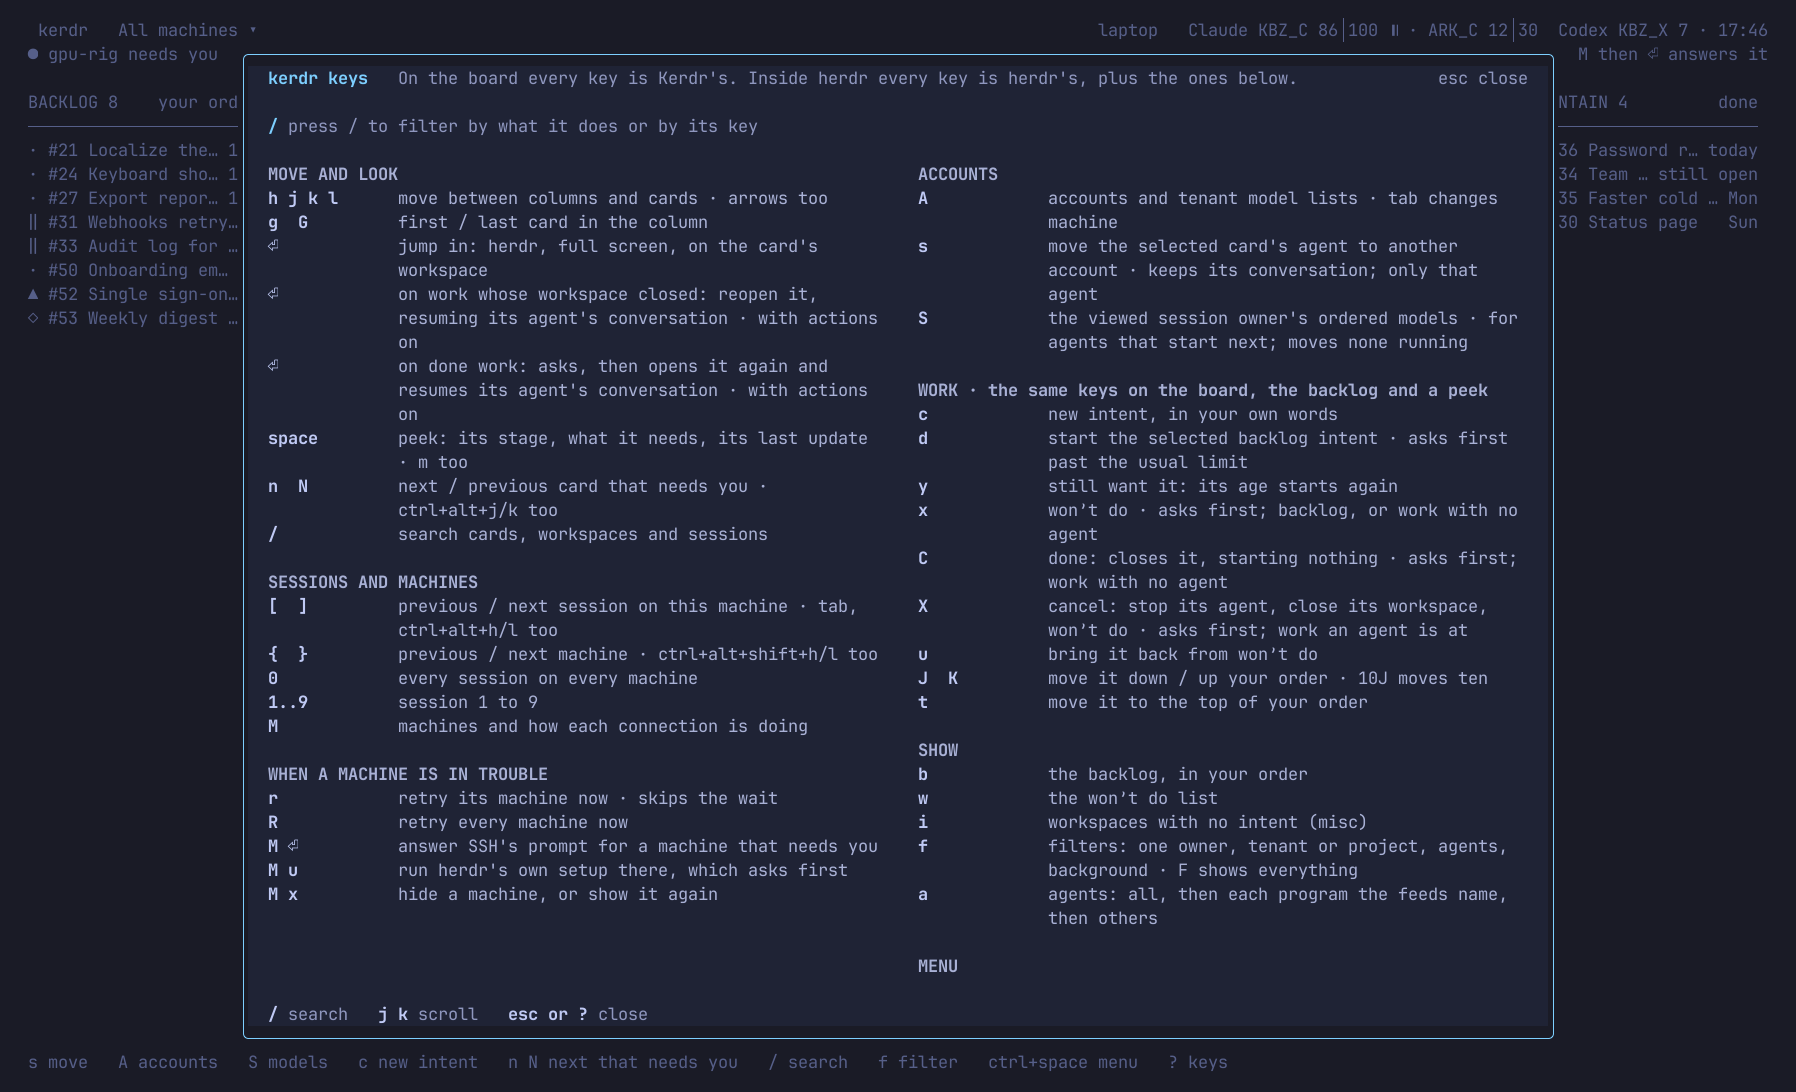
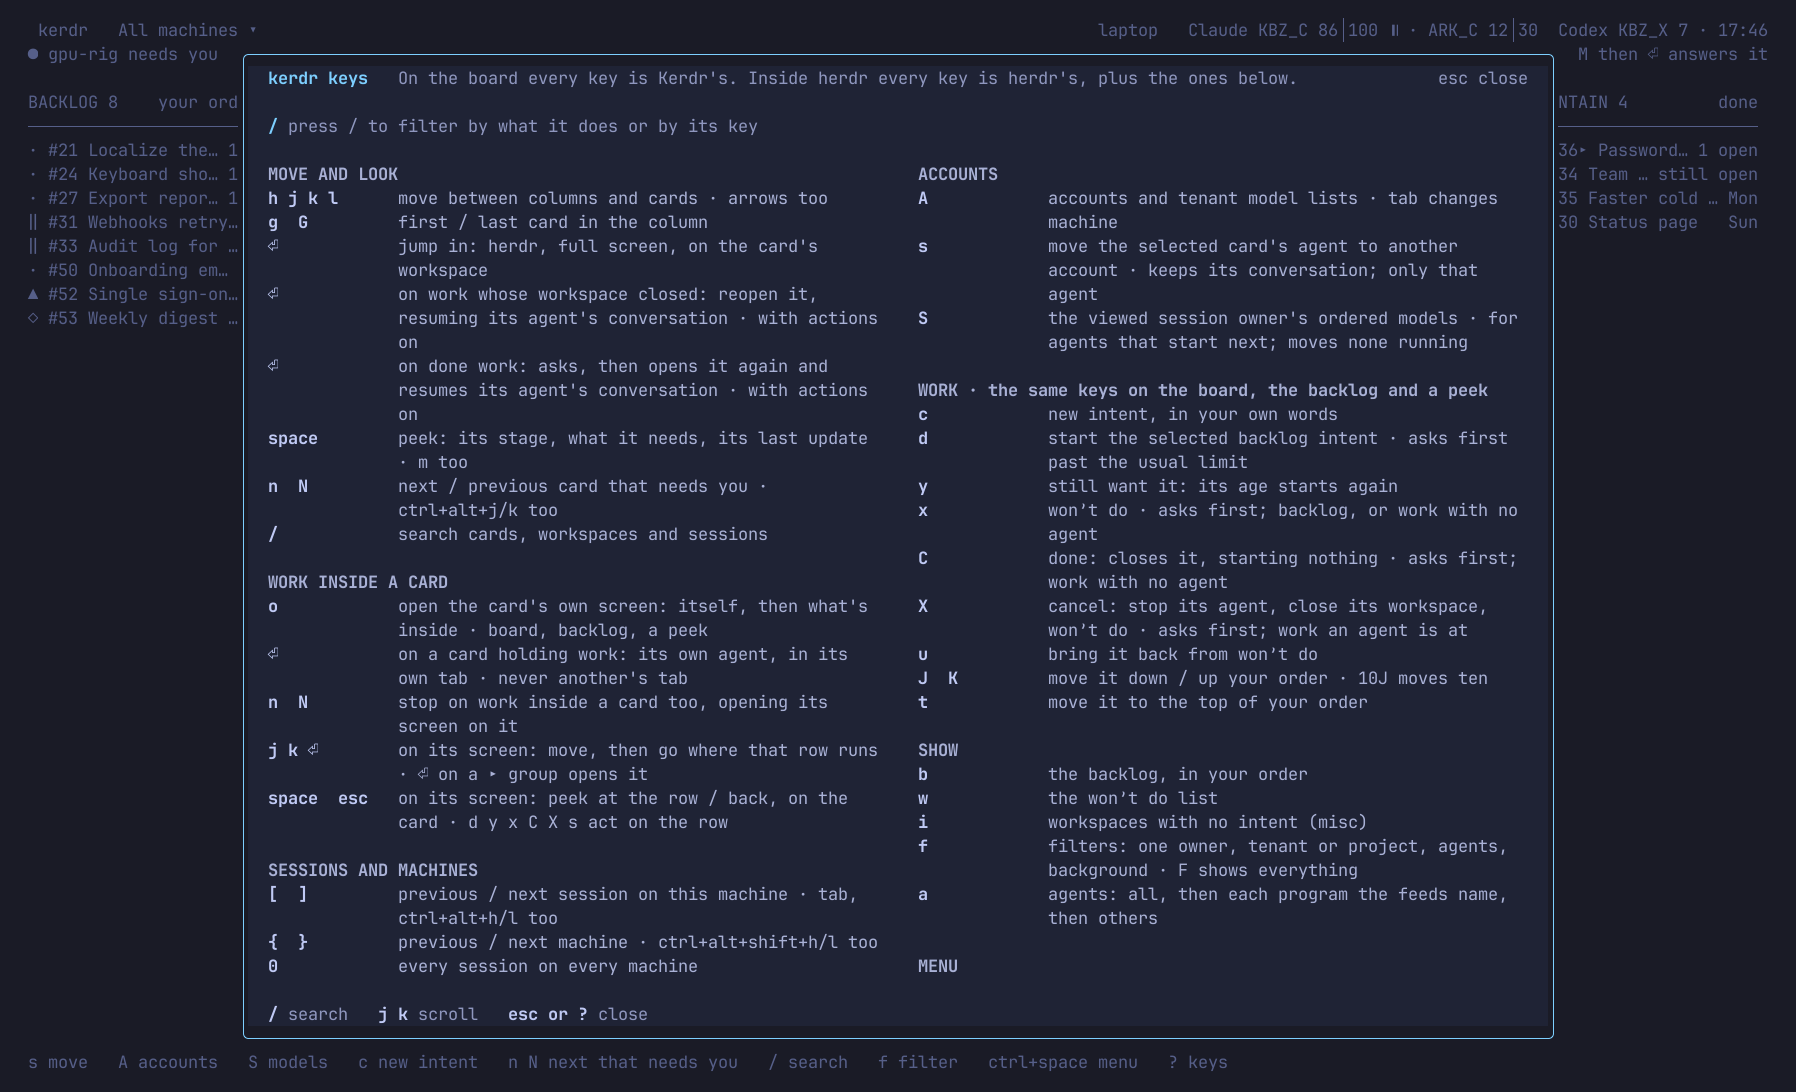
Kerdr 0.15.0: work an agent made for a card lives inside that card

Changed region(s): [[0.1559, 0.5293, 0.4989, 0.9029], [0.9042, 0.1245, 0.9354, 0.1557]]

diff --git a/src/inside.rs b/src/inside.rs
@@ -664,7 +664,13 @@ mod tests {
     use crate::poll::{Conn, MachineData};
     use ratatui::crossterm::event::{KeyCode, KeyModifiers};
 
-    fn machine(name: &str, ssh: bool, session: &str, snap: Snapshot, cards: Vec<FeedCard>) -> MachineState {
+    fn machine(
+        name: &str,
+        ssh: bool,
+        session: &str,
+        snap: Snapshot,
+        cards: Vec<FeedCard>,
+    ) -> MachineState {
         let mut m = MachineState::new(Machine {
             name: name.into(),
             ssh: ssh.then(|| name.to_lowercase()),
@@ -794,12 +800,22 @@ mod tests {
                     c.no_agent = true;
                     c.lane = Some("background".into());
                 }),
-                card("0348", "Knowledge browser live access checks", "backlog", |c| {
-                    c.from = Some("0139".into());
-                }),
-                card("0350", "Browser key-node shapes design pass", "backlog", |c| {
-                    c.from = Some("0139".into());
-                }),
+                card(
+                    "0348",
+                    "Knowledge browser live access checks",
+                    "backlog",
+                    |c| {
+                        c.from = Some("0139".into());
+                    },
+                ),
+                card(
+                    "0350",
+                    "Browser key-node shapes design pass",
+                    "backlog",
+                    |c| {
+                        c.from = Some("0139".into());
+                    },
+                ),
                 card("0143", "Find the next flywheel", "maintain", |c| {
                     c.attention = Some("done".into());
                     c.closed = Some("2026-10-31".into());
@@ -820,20 +836,25 @@ mod tests {
             true,
             "ARK-Background",
             one_snap,
-            vec![card("0331", "Live check: Arkship work on arknet-one", "build", |c| {
-                c.from = Some("0256".into());
-                c.lane = Some("background".into());
-                c.home = Some(Home {
-                    machine: Some("arknet-one".into()),
-                    session: Some("ARK-Background".into()),
-                });
-                c.workspace = Some(FeedWorkspace {
-                    session: Some("ARK-Background".into()),
-                    id: Some("w1".into()),
-                    label: Some("31-live-check".into()),
-                    ..Default::default()
-                });
-            })],
+            vec![card(
+                "0331",
+                "Live check: Arkship work on arknet-one",
+                "build",
+                |c| {
+                    c.from = Some("0256".into());
+                    c.lane = Some("background".into());
+                    c.home = Some(Home {
+                        machine: Some("arknet-one".into()),
+                        session: Some("ARK-Background".into()),
+                    });
+                    c.workspace = Some(FeedWorkspace {
+                        session: Some("ARK-Background".into()),
+                        id: Some("w1".into()),
+                        label: Some("31-live-check".into()),
+                        ..Default::default()
+                    });
+                },
+            )],
         );
         let mut cfg = Config::default();
         cfg.actions.command = Some("ark-card-action".into());
@@ -894,7 +915,10 @@ mod tests {
         let cols = column_ids(&app);
         let all: Vec<&String> = cols.iter().flatten().collect();
         for piece in ["0262", "0277", "0331", "0332", "0287", "0348", "0350"] {
-            assert!(!all.iter().any(|id| *id == piece), "{piece} is inside its card");
+            assert!(
+                !all.iter().any(|id| *id == piece),
+                "{piece} is inside its card"
+            );
         }
         // Column counts count a card once.
         assert_eq!(cols[Stage::Test.index()], ["0256"]);
@@ -947,7 +971,11 @@ mod tests {
                     && b[(x + 3, y)].symbol() == "6"
             })
             .expect("#256 on the board");
-        assert_eq!(b[(x - 2, y)].fg, crate::theme::YELLOW, "its border is yellow");
+        assert_eq!(
+            b[(x - 2, y)].fg,
+            crate::theme::YELLOW,
+            "its border is yellow"
+        );
     }
 
     #[test]
@@ -963,10 +991,7 @@ mod tests {
         assert_eq!(app.jump_tab(&child), (Some("w2K:t2".into()), true));
         // herdr finds the card's own tab gone: it asks to reopen the card, landing nowhere.
         app.tab_gone(&k);
-        let Mode::Confirm {
-            request, plain, ..
-        } = &app.mode
-        else {
+        let Mode::Confirm { request, plain, .. } = &app.mode else {
             panic!("asks: {:?}", app.mode)
         };
         assert_eq!(request["action"], "reopen");
@@ -1003,10 +1028,22 @@ mod tests {
         assert!(matches!(app.mode, Mode::Card { .. }));
         for (w, h) in SIZES {
             let text = rendered(&mut app, w, h);
-            for r in ["#256", "#262", "#277", "#331", "#332", "NEEDS YOU", "UNDER WAY", "NOT STARTED"] {
+            for r in [
+                "#256",
+                "#262",
+                "#277",
+                "#331",
+                "#332",
+                "NEEDS YOU",
+                "UNDER WAY",
+                "NOT STARTED",
+            ] {
                 assert!(text.contains(r), "{w}x{h} shows {r}:\n{text}");
             }
-            assert!(text.contains("the card itself") || w < 110, "{w}x{h}:\n{text}");
+            assert!(
+                text.contains("the card itself") || w < 110,
+                "{w}x{h}:\n{text}"
+            );
         }
         // The card itself first, then what needs you.
         let rows = |app: &App| {
@@ -1016,10 +1053,16 @@ mod tests {
             focus.clone()
         };
         assert_eq!(rows(&app), "");
-        assert_eq!(press(&mut app, KeyCode::Enter), Action::Jump(key(&app, "0256")));
+        assert_eq!(
+            press(&mut app, KeyCode::Enter),
+            Action::Jump(key(&app, "0256"))
+        );
         press(&mut app, KeyCode::Char('j'));
         assert_eq!(rows(&app), key(&app, "0262"));
-        assert_eq!(press(&mut app, KeyCode::Enter), Action::Jump(key(&app, "0262")));
+        assert_eq!(
+            press(&mut app, KeyCode::Enter),
+            Action::Jump(key(&app, "0262"))
+        );
         press(&mut app, KeyCode::Char('j'));
         assert_eq!(rows(&app), key(&app, "0331"));
         let one = key(&app, "0331");
@@ -1063,13 +1106,19 @@ mod tests {
         let Mode::Card { card, focus, .. } = &app.mode else {
             panic!("{:?}", app.mode)
         };
-        assert_eq!((card.as_str(), focus.as_str()), ("ark-sdlc:0256", "ark-sdlc:0262"));
+        assert_eq!(
+            (card.as_str(), focus.as_str()),
+            ("ark-sdlc:0256", "ark-sdlc:0262")
+        );
         // The next is inside another card: its screen, on it.
         app.step_needs_you(1);
         let Mode::Card { card, focus, .. } = &app.mode else {
             panic!("{:?}", app.mode)
         };
-        assert_eq!((card.as_str(), focus.as_str()), ("ark-sdlc:0139", "ark-sdlc:0287"));
+        assert_eq!(
+            (card.as_str(), focus.as_str()),
+            ("ark-sdlc:0139", "ark-sdlc:0287")
+        );
         // Ctrl+Space Space goes straight to a piece's own tab: only those with a workspace open.
         assert_eq!(
             app.next_needs_you_after(&key(&app, "0287"), &[]),
@@ -1093,7 +1142,10 @@ mod tests {
         let Mode::Card { card, focus, .. } = &app.mode else {
             panic!("{:?}", app.mode)
         };
-        assert_eq!((card.as_str(), focus.as_str()), ("ark-sdlc:0256", "ark-sdlc:0331"));
+        assert_eq!(
+            (card.as_str(), focus.as_str()),
+            ("ark-sdlc:0256", "ark-sdlc:0331")
+        );
     }
 
     #[test]
@@ -1119,7 +1171,12 @@ mod tests {
                 })
             })
             .collect();
-        app.machines[0].feed.as_mut().unwrap().cards.append(&mut extra);
+        app.machines[0]
+            .feed
+            .as_mut()
+            .unwrap()
+            .cards
+            .append(&mut extra);
         app.rebuild();
         select(&mut app, "0143");
         press(&mut app, KeyCode::Char('o'));
@@ -1134,7 +1191,10 @@ mod tests {
         for (w, h) in SIZES {
             let text = rendered(&mut app, w, h);
             assert!(text.contains("#400"), "{w}x{h}:\n{text}");
-            assert!(text.contains("below"), "past a screenful it scrolls, {w}x{h}:\n{text}");
+            assert!(
+                text.contains("below"),
+                "past a screenful it scrolls, {w}x{h}:\n{text}"
+            );
         }
     }
 
@@ -1142,11 +1202,19 @@ mod tests {
     fn a_loop_of_links_leaves_every_card_on_the_board() {
         let mut app = families(Some("w2K:t1"));
         let f = app.machines[0].feed.as_mut().unwrap();
-        f.cards.push(card("0500", "a", "build", |c| c.parent = Some("0501".into())));
-        f.cards.push(card("0501", "b", "build", |c| c.parent = Some("0500".into())));
+        f.cards.push(card("0500", "a", "build", |c| {
+            c.parent = Some("0501".into())
+        }));
+        f.cards.push(card("0501", "b", "build", |c| {
+            c.parent = Some("0500".into())
+        }));
         app.rebuild();
         let cols = column_ids(&app);
-        let on_board = cols.iter().flatten().filter(|id| *id == "0500" || *id == "0501").count();
+        let on_board = cols
+            .iter()
+            .flatten()
+            .filter(|id| *id == "0500" || *id == "0501")
+            .count();
         assert_eq!(on_board, 1, "one heads the family, holding the other");
     }
 }

diff --git a/examples/shots.rs b/examples/shots.rs
@@ -294,6 +294,17 @@ fn main() {
     };
     rasterize(&render(&handed), &fonts, &out.join("peek-handed-over.png"));
 
+    // A card's own screen (o), on the child at work in a tab of its workspace.
+    let mut card = app(false);
+    select(&mut card, "#41");
+    for c in ['o', 'j'] {
+        card.on_key(ratatui::crossterm::event::KeyEvent::new(
+            ratatui::crossterm::event::KeyCode::Char(c),
+            ratatui::crossterm::event::KeyModifiers::NONE,
+        ));
+    }
+    rasterize(&render(&card), &fonts, &out.join("card.png"));
+
     let mut road = app(true);
     select(&mut road, "#41");
     rasterize(&render(&road), &fonts, &out.join("reconnecting.png"));

diff --git a/src/demo.rs b/src/demo.rs
@@ -574,7 +574,8 @@ pub fn machines(away: bool) -> Vec<MachineState> {
                 if let Some(w) = &mut c.workspace {
                     w.tab = Some("w1:t2".into());
                 }
-                c.words = Some("Found while testing #41: a declined card empties the basket.".into());
+                c.words =
+                    Some("Found while testing #41: a declined card empties the basket.".into());
                 c.message = Some("The basket now survives a decline; one flaky test left.".into());
             }
             "49" => {

diff --git a/src/card_ui.rs b/src/card_ui.rs
@@ -155,6 +155,7 @@ fn cols(w: usize) -> Cols {
 }
 
 /// One table row: its name part, then the columns, each cut to its width.
+#[allow(clippy::too_many_arguments)]
 fn table(
     buf: &mut Buffer,
     rect: Rect,

diff --git a/docs/feed.md b/docs/feed.md
@@ -36,7 +36,7 @@ Kerdr shows the last good feed, with herdr's live view, when a run fails.
       "priority": "normal",
       "lane": "interactive",
       "home": {"machine": "laptop", "session": "web"},
-      "workspace": {"session": "web", "id": "w1", "label": "41-checkout-expired-cards"},
+      "workspace": {"session": "web", "id": "w1", "label": "41-checkout-expired-cards", "own_tab": "w1:t1"},
       "attention": "needs_you",
       "status": "Waiting on you",
       "needs": "Your OK on the retry message before it ships",
@@ -54,6 +54,8 @@ Kerdr shows the last good feed, with herdr's live view, when a run fails.
       "closed": "2026-10-21",
       "path": "intents/0041-checkout-expired-cards",
       "parent": "0038",
+      "from": "0036",
+      "undertaker_for": "0035",
       "resume": {"agent": "claude", "conversation": "4f2b8c1e-…"}
     }
   ],
@@ -91,7 +93,36 @@ know rather than guessing.
 | `disposition` | An optional record of a backlog decision, such as `kept` or `dropped`. |
 | `intake` | `pending` while a record made from someone's words is being written up, `failed` when it couldn't be. Absent once it's written up. Kerdr marks it ✎ in the backlog. |
 | `resume` | For work under way or done: the agent conversation that worked it, `{"agent": "codex", "conversation": "<its id>"}`. Kerdr names the agent when `Enter` would reopen the card; the action backend does the resuming, so this is only what it would resume. |
+| `parent`, `undertaker_for`, `from` | The card this one sits inside (see [Work inside a card](#work-inside-a-card)): its `parent`, for a child; else the card whose agents it sees through, for an undertaker; else the card whose work it came out of, for a follow-up that isn't a child. Each is an `id` in the same feed. Give at most what's true; Kerdr uses the first of the three a card names. |
+| `workspace.own_tab` | The tab the card's own agent runs in, from your record of the pane that agent was started or reopened in, never guessed. `Enter` on the card lands there, never on a tab work inside the card runs in. `tab` keeps its meaning (work confined to one tab, which `X` closes alone); `own_tab` is only for `Enter`. |
 | `no_agent` | `true` for open work in a working column that no agent is at: no workspace on it, and nothing running the conversation that worked it. Kerdr says "no agent" on the card (unless a workspace or agent turns up for it), and its bottom line offers `C` and `x`. Leave it out when you can't tell. |
+
+## Work inside a card
+
+What an agent made for a card sits inside that card rather than in a column of its own: its
+children (`parent`), the undertaker seeing its agents through (`undertaker_for`) and the
+follow-ups that came out of its work (`from`). Kerdr matches each by `id` within the same `source`,
+across every machine's feed, so a follow-up running on another machine still sits in its card. A
+piece of a piece sits in the topmost card of its family that's on the board, and a loop in these
+links is broken where it closes, leaving every card on the board.
+
+On the board, a card holding work has one more line: how many pieces, a few marks (▲ needs you, ○
+no agent at it, ● under way, ■ waiting, ◇ waits on another intent, · not started, ✓ done), `+N` for
+the rest, and the piece that needs you, named. Its border turns yellow only when a piece needs you
+(asking, waiting on you, blocked, or open with no agent at it). Column counts count the card once. A
+done card with work still open inside goes to the top of Maintain with a plain count, "3 open",
+yellow only when some of it needs you, so **keep a closed card in the feed while anything inside
+it is open**. When the card a piece sits in is out of view (another machine's tab, a filter, a
+record no feed has), the piece shows as a card of its own marked "in #256", and `o` on it opens
+that card when it can.
+
+`o` opens a card's own screen: the card itself, then what's inside grouped as needs you, under way,
+not started and done, with the selected row's details beside the list (below it on a narrow
+screen). `Enter` on a row goes wherever that record runs, reopening one with no agent at it as
+`Enter` on the board does. `Enter` on a card goes to `workspace.own_tab`; when the workspace holds
+tabs other work runs in and that tab is unknown or has closed, Kerdr says so and offers to send
+`reopen` instead of landing on another tab. A Kerdr older than 0.15 ignores all of this: it shows
+every card in its own column and opens the workspace on `Enter`.
 
 ## Actions
 

diff --git a/README.md b/README.md
@@ -70,11 +70,27 @@ you, its done-when criteria, the agent's last update, and the latest lines of it
 
 ![Peeking at a card: lifecycle rail, what it needs from you, done-when criteria and its log](docs/screenshots/peek.png)
 
+### Work inside a card
+
+What an agent made for a card (its children, its undertaker, the follow-ups that came out of its
+work) lives inside that card, not in a column of its own. The card's last line counts it, marks
+each piece, and names the one that needs you, and its border turns yellow while one does. A done
+card with work still open inside stays at the top of Maintain, saying "3 open". `o` opens the card's
+own screen: the card itself first, then what's inside, grouped as needs you, under way, not started
+and done, with the selected row's details beside it. `Enter` on a row goes where that work runs: a
+child's tab, a follow-up's own workspace, or another machine. `Enter` on the board goes to the
+card's own agent, in its own tab, never a child's. `n` and `prefix Space` stop on a piece that needs
+you too. Feeds say which card a record sits in with `parent`, `undertaker_for` or `from`; see
+[docs/feed.md](docs/feed.md#work-inside-a-card).
+
+![A card's own screen: the card itself, then what's inside it by group, and the selected piece's details](docs/screenshots/card.png)
+
 ### Jump in, step out, keep going
 
 - `Enter` focuses the card's herdr workspace and opens herdr full screen, with herdr's sidebar
   hidden, since the board does that job now. A card whose feed names a tab, for work running in
-  one tab of a shared workspace, lands on that tab.
+  one tab of a shared workspace, lands on that tab, and a card holding work lands on its own
+  agent's tab; when that tab has closed, Kerdr offers to reopen it rather than open another.
 - `prefix q` is herdr's own detach. Inside Kerdr it brings you back to the board.
 - `prefix Space` jumps straight to the next card that needs you, without stopping at the board,
   so you can answer several agents in a row.
@@ -297,7 +313,8 @@ Account features work through the optional [feed and action contract](docs/feed.
 | `h j k l` or arrows | move between columns and cards |
 | `Enter` | jump in; on work whose workspace closed, reopen it; on done work, ask to reopen it (both with actions) |
 | `m` or `Space` | peek |
-| `n` / `N` | next / previous card that needs you (also `Ctrl+Alt+j/k`) |
+| `o` | the card's own screen: itself, then what's inside (also from the backlog and a peek); there, `j` `k` move, `Enter` goes where the row runs or opens a folded group, `Space` peeks, `d` `y` `x` `C` `X` `s` act on the row, `Esc` goes back |
+| `n` / `N` | next / previous card that needs you, or work inside a card, opening its screen on it (also `Ctrl+Alt+j/k`) |
 | `[` / `]` | previous / next session (also `Ctrl+Alt+h/l`, `Tab`) |
 | `{` / `}` | previous / next machine (also `Ctrl+Alt+Shift+h/l`) |
 | `0`, `1`..`9` | every session, or session tab 1 to 9 |
@@ -321,7 +338,7 @@ Account features work through the optional [feed and action contract](docs/feed.
 | Inside herdr | |
 |---|---|
 | `prefix q` | back to the board (herdr's own detach) |
-| `prefix Space` | next card that needs you |
+| `prefix Space` | next card that needs you, work inside cards included, straight to its tab |
 | `prefix Backspace` | back to the board, as listed in herdr's menu |
 
 `prefix` is herdr's prefix key, Ctrl+B unless you've set another. `prefix Space` and
@@ -445,7 +462,7 @@ you, the machine shows *needs you*, and `M` then `Enter` lets you answer it.
 
 ## Status
 
-Kerdr is new (0.14). Reading and navigation work without an action adapter. Opting into
+Kerdr is new (0.15). Reading and navigation work without an action adapter. Opting into
 `[actions] command` enables record changes, dispatch and reopening through your own adapter, on
 the record's home machine. Commands run in the background and show their result; an unknown result
 is never retried automatically. In herdr, Kerdr focuses the workspace you jump into, shows a
